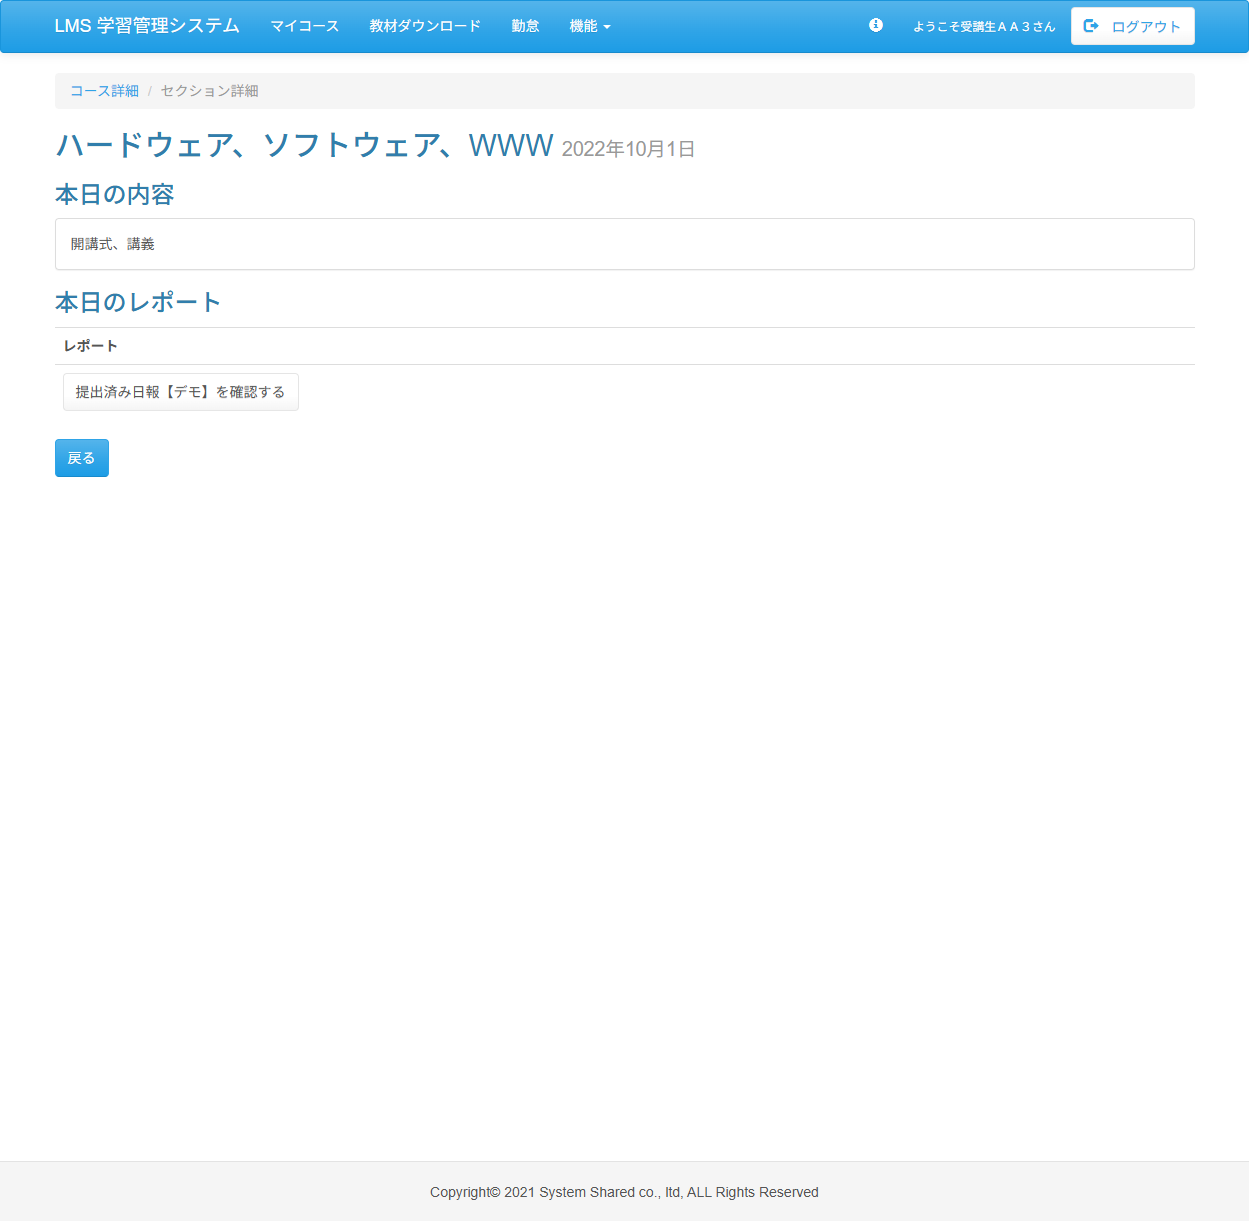
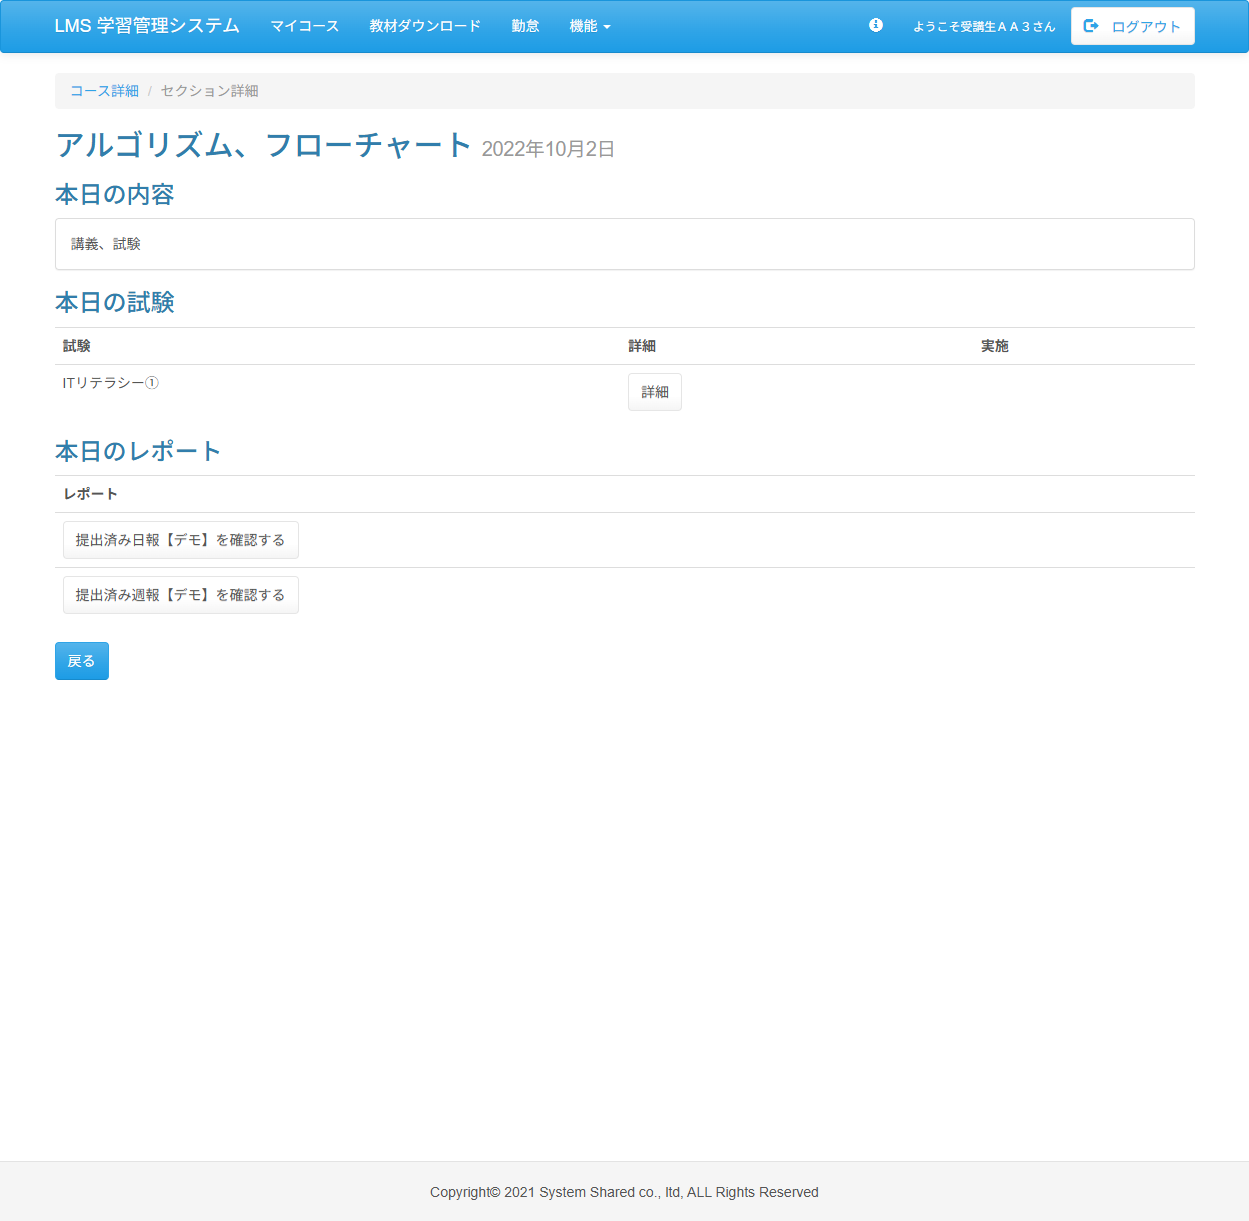
fix:Case08.java 受講生レポート修正(週報)正常系テストコード修正
日報判定から週報判定に修正した。

diff --git a/test_code_creation_name/src/test/java/jp/co/sss/lms/ct/f03_report/Case08.java b/test_code_creation_name/src/test/java/jp/co/sss/lms/ct/f03_report/Case08.java
@@ -12,6 +12,7 @@ import org.junit.jupiter.api.Test;
 import org.junit.jupiter.api.TestMethodOrder;
 import org.openqa.selenium.By;
 import org.openqa.selenium.WebElement;
+import org.openqa.selenium.support.ui.Select;
 
 /**
  * 結合テスト レポート機能
@@ -86,11 +87,9 @@ public class Case08 {
 	@Order(3)
 	@DisplayName("テスト03 提出済の研修日の「詳細」ボタンを押下しセクション詳細画面に遷移")
 	void test03() {
-		// 「提出済み」ステータスの研修日にある「詳細」ボタンを特定する
-		String xpathExpression = "//tr[.//span[normalize-space() = '提出済み']]//input[@type='submit' and @value='詳細']";
-
-		// 「詳細」ボタンの要素を取得し押下する
-		WebElement detailsButton = webDriver.findElement(By.xpath(xpathExpression));
+		// 「詳細」ボタンを取得して押下する
+		WebElement detailsButton = webDriver.findElement(
+				By.xpath("//tr[td[contains(normalize-space(), '2022年10月2日')]]//input[@type='submit' and @value='詳細']"));
 		detailsButton.click();
 
 		// セクション詳細画面が表示されるまで待機する
@@ -111,12 +110,12 @@ public class Case08 {
 	void test04() {
 		// ボタンの要素を取得し押下する
 		WebElement reportButton = webDriver
-				.findElement(By.cssSelector("input[type='submit'][value='提出済み日報【デモ】を確認する']"));
+				.findElement(By.cssSelector("input[type='submit'][value='提出済み週報【デモ】を確認する']"));
 		reportButton.click();
 
-		// 見出しを取得しレポート登録画面に遷移できていることを確認する
-		WebElement legendElement = webDriver.findElement(By.tagName("legend"));
-		assertEquals("報告レポート", legendElement.getText());
+		// 週報であることを確認する
+		WebElement reportNameElement = webDriver.findElement(By.cssSelector("input[name='reportName']"));
+		assertEquals("週報【デモ】", reportNameElement.getAttribute("value"));
 
 		// エビデンスを取得する
 		getEvidence(new Object() {
@@ -127,22 +126,41 @@ public class Case08 {
 	@Order(5)
 	@DisplayName("テスト05 報告内容を修正して「提出する」ボタンを押下しセクション詳細画面に遷移")
 	void test05() {
-		//レポート入力欄の要素を取得し、内容を消去して、新しい内容を入力する
-		WebElement textInput = webDriver.findElement(By.id("content_0"));
-		textInput.clear();
-		textInput.sendKeys("今日も楽しかった。");
+		// 登録済みの内容を取得し、内容を消去して、新しい内容を入力する
+		WebElement leaningItem = webDriver.findElement(By.id("intFieldName_0"));
+		leaningItem.clear();
+		leaningItem.sendKeys("テスト");
+
+		// 理解度を変更する
+		Select understanding = new Select(webDriver.findElement(By.id("intFieldValue_0")));
+		understanding.selectByVisibleText("2");
+
+		// 目標の達成度を取得し、内容を削除し、新しい内容を取得する
+		WebElement goalAchievement = webDriver.findElement(By.id("content_0"));
+		goalAchievement.clear();
+		goalAchievement.sendKeys("8");
+
+		// 所感を取得し、内容を削除し、新しい内容を取得する
+		WebElement impression = webDriver.findElement(By.id("content_1"));
+		impression.clear();
+		impression.sendKeys("週報入力テスト");
+
+		// 所感を取得し、内容を削除し、新しい内容を取得する
+		WebElement weeklyReflection = webDriver.findElement(By.id("content_2"));
+		weeklyReflection.clear();
+		weeklyReflection.sendKeys("今週でrp2終了");
 
 		// 「提出する」ボタンの要素を取得し押下する
-		WebElement loginButton = webDriver.findElement(By.cssSelector("button[type='submit']"));
-		loginButton.click();
+		WebElement submitButton = webDriver.findElement(By.cssSelector("button[type='submit']"));
+		submitButton.click();
 
 		visibilityTimeout(By.id("sectionDetail"), 60);
 
-		// 提出済みの日報確認ボタンを取得し、更新されていることを確認する
+		// 提出済みの週報確認ボタンを取得し、更新されていることを確認する
 		WebElement inputElement = webDriver
-				.findElement(By.cssSelector("input[type='submit'][value='提出済み日報【デモ】を確認する']"));
+				.findElement(By.cssSelector("input[type='submit'][value='提出済み週報【デモ】を確認する']"));
 		String value = inputElement.getAttribute("value");
-		assertEquals("提出済み日報【デモ】を確認する", value);
+		assertEquals("提出済み週報【デモ】を確認する", value);
 
 		// エビデンスを取得する
 		getEvidence(new Object() {
@@ -179,18 +197,23 @@ public class Case08 {
 		// 日付とレポート名を条件に、該当レポートの「詳細」ボタンの要素を取得し押下する
 		WebElement detailBtn = webDriver
 				.findElement(
-						By.xpath("//tr[td[normalize-space()='2022年10月1日(土)']"
-								+ " and td[normalize-space()='日報【デモ】']]"
+						By.xpath("//tr[td[normalize-space()='2022年10月2日(日)']"
+								+ " and td[normalize-space()='週報【デモ】']]"
 								+ "//input[@type='submit'and@value='詳細']"));
 		detailBtn.click();
 
 		// 読み込まれるまで待機する
 		pageLoadTimeout(10);
 
-		// 表示されている内容を取得し確認する
-		WebElement reportContent = webDriver
-				.findElement(By.xpath("//th[normalize-space()='本日の報告内容をお書きください。']/following-sibling::td"));
-		assertEquals("今日も楽しかった。", reportContent.getText().trim());
+		// 修正した所感を取得し確認する
+		WebElement impression = webDriver
+				.findElement(By.xpath("//th[normalize-space()='所感']/following-sibling::td"));
+		assertEquals("週報入力テスト", impression.getText().trim());
+
+		// 修正した一週間の振り返りを取得し確認する
+		WebElement weeklyReflection = webDriver
+				.findElement(By.xpath("//th[normalize-space()='一週間の振り返り']/following-sibling::td"));
+		assertEquals("今週でrp2終了", weeklyReflection.getText().trim());
 
 		// エビデンスを取得する
 		getEvidence(new Object() {
